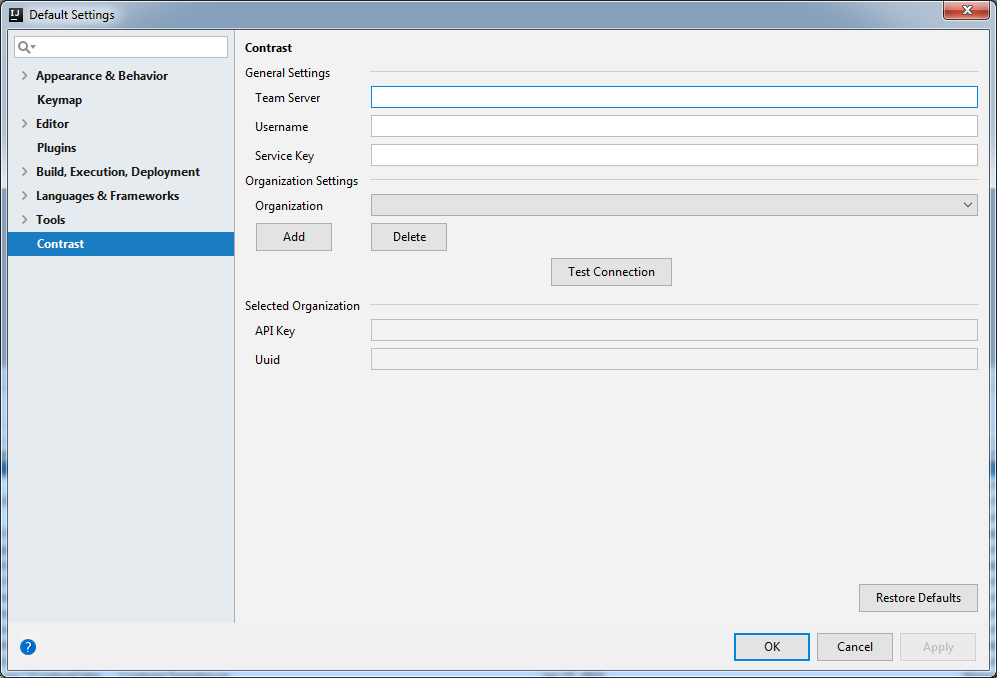
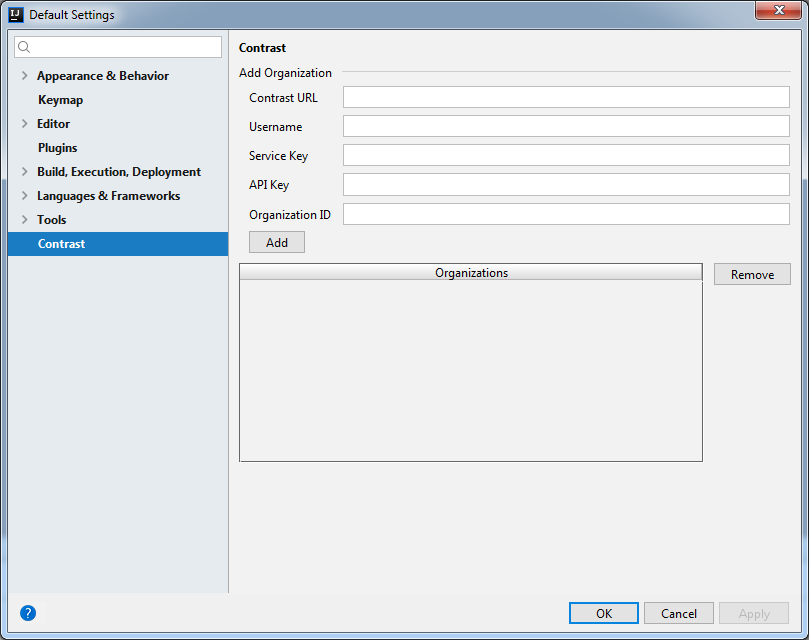
changes for the new onboarding workflow

diff --git a/content/tools/intellij/IntellijInstall.md b/content/tools/intellij/IntellijInstall.md
@@ -32,16 +32,11 @@ IntelliJ versions:
 * Configure the Contrast plugin for IntelliJ IDEA: 
 	* On OSX, go to **File > Settings > Contrast**. 
 	* On Windows, go to **Preferences > Contrast**. 
-* Add the **TeamServer URL**, **Username**, and **Service Key** in the given fields.
+* Add the **TeamServer URL**, **Username**, **Service Key**, **API key**, and **Organization ID** in the given fields.
 
 > **Note:** To find your [keys](user-account.html#profile), go to the **user menu > Your Account > Profile page** in the Contrast application.
 
 * Add a new organization by clicking the **Add** button.
-* Enter the API key and click the **Retrieve organizations** button.
-* Choose an organization.
-* Click the **Test Connection** button.
-
->**Note:** An organization must have already been added for the connection to succeed.
 
 * Once the plugin is configured, click the refresh button in the Contrast tool window to update the list of vulnerabilities.
 
